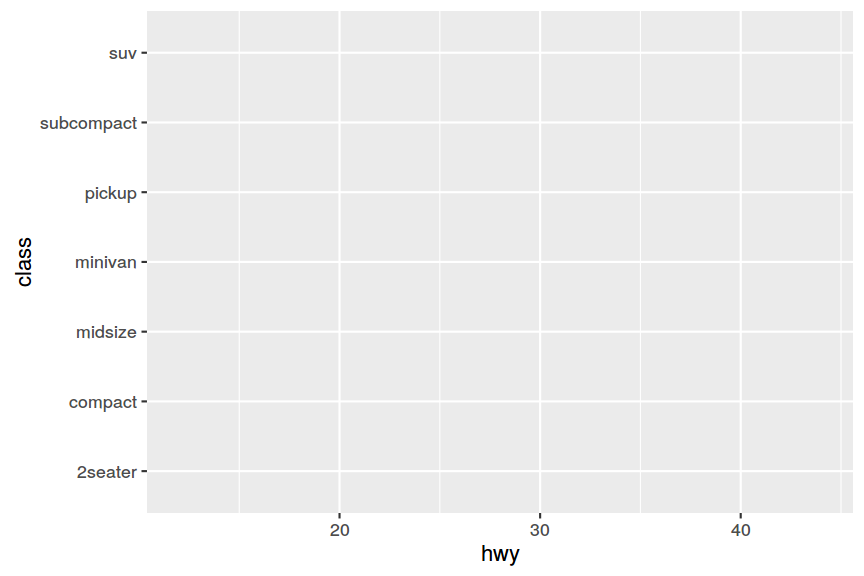
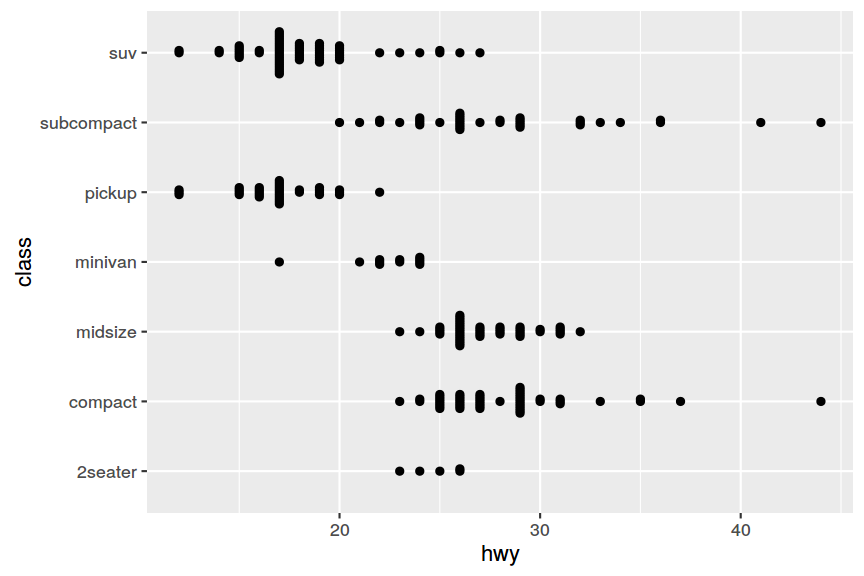
Move internal geoms to plusses

diff --git a/README.md b/README.md
@@ -43,14 +43,14 @@ ggplot(iris,aes(Species, Sepal.Length)) + geom_quasirandom()
 <img src="README_files/figure-html/ggplot2-examples-1.png" title="plot of chunk ggplot2-examples" alt="plot of chunk ggplot2-examples" width="432" />
 
 ```r
-ggplot(mpg,aes(class, hwy), geom="quasirandom")
+ggplot(mpg,aes(class, hwy)) + geom_quasirandom()
 ```
 
 <img src="README_files/figure-html/ggplot2-examples-2.png" title="plot of chunk ggplot2-examples" alt="plot of chunk ggplot2-examples" width="432" />
 
 ```r
 # With categorical y-axis
-ggplot(mpg,aes(hwy, class), geom='quasirandom')
+ggplot(mpg,aes(hwy, class)) + geom_quasirandom()
 ```
 
 <img src="README_files/figure-html/ggplot2-examples-3.png" title="plot of chunk ggplot2-examples" alt="plot of chunk ggplot2-examples" width="432" />
@@ -81,14 +81,14 @@ ggplot(iris,aes(Species, Sepal.Length)) + geom_beeswarm()
 <img src="README_files/figure-html/ggplot2-beeswarm-1.png" title="plot of chunk ggplot2-beeswarm" alt="plot of chunk ggplot2-beeswarm" width="432" />
 
 ```r
-ggplot(mpg,aes(class, hwy), geom='beeswarm')
+ggplot(mpg,aes(class, hwy)) + geom_beeswarm()
 ```
 
 <img src="README_files/figure-html/ggplot2-beeswarm-2.png" title="plot of chunk ggplot2-beeswarm" alt="plot of chunk ggplot2-beeswarm" width="432" />
 
 ```r
 # With categorical y-axis
-ggplot(mpg,aes(hwy, class), geom='beeswarm')
+ggplot(mpg,aes(hwy, class)) + geom_beeswarm()
 ```
 
 <img src="README_files/figure-html/ggplot2-beeswarm-3.png" title="plot of chunk ggplot2-beeswarm" alt="plot of chunk ggplot2-beeswarm" width="432" />
